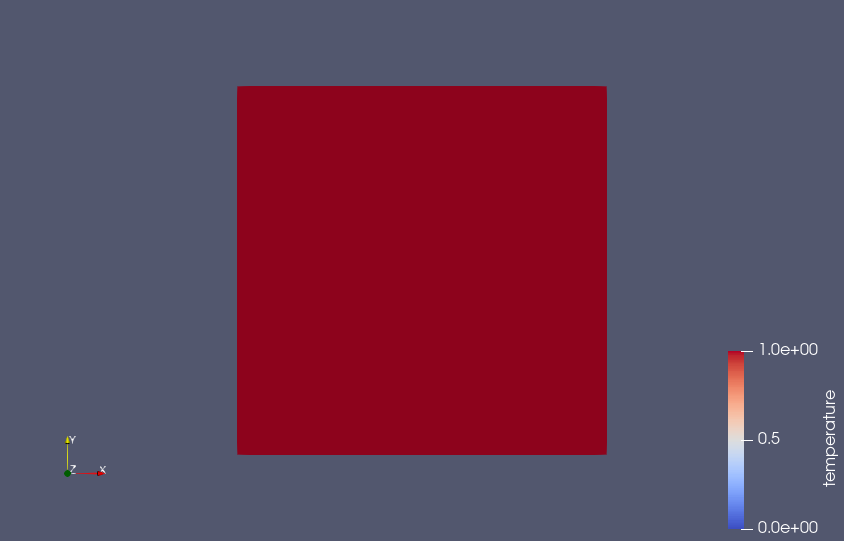
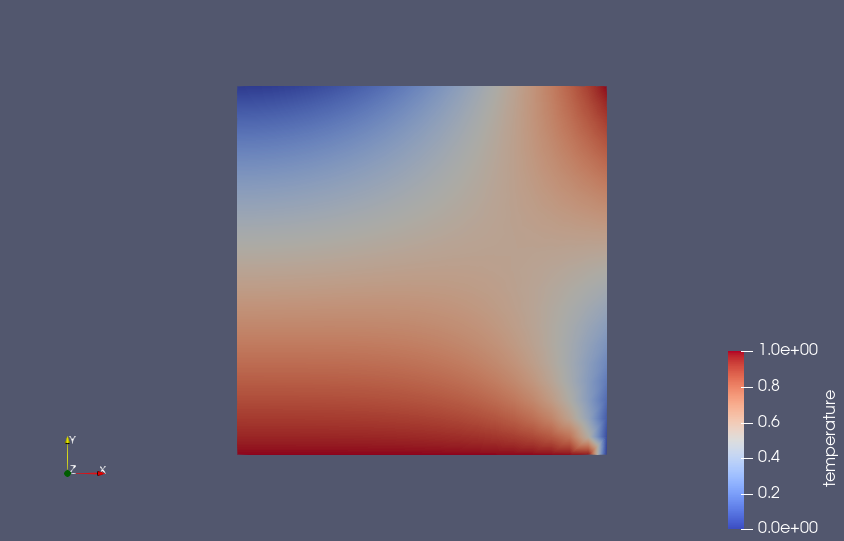
docs: more interesting boundary condition

diff --git a/examples/simple_conduction/without_input_file.cpp b/examples/simple_conduction/without_input_file.cpp
@@ -42,10 +42,16 @@ int main(int argc, char* argv[])
   conduction.setConductivity(std::move(kappa_coef));
   // _conductivity_end
   // _bc_start
-  const std::set<int> boundary_attributes = {1};
-  constexpr double boundary_value = 1.0;
-  auto boundary_coef = std::make_unique<mfem::ConstantCoefficient>(boundary_value);
-  conduction.setTemperatureBCs(boundary_attributes, std::move(boundary_coef));
+  const std::set<int> boundary_constant_attributes = {1};
+  constexpr double boundary_constant = 1.0;
+  auto boundary_constant_coef = std::make_unique<mfem::ConstantCoefficient>(boundary_constant);
+  conduction.setTemperatureBCs(boundary_constant_attributes, std::move(boundary_constant_coef));
+
+  const std::set<int> boundary_function_attributes = {2, 3};
+  auto boundary_function_coef = std::make_unique<mfem::FunctionCoefficient>([](const mfem::Vector& vec){
+    return vec[0] * vec[0] + vec[1] - 1;
+  });
+  conduction.setTemperatureBCs(boundary_function_attributes, std::move(boundary_function_coef));
   // _bc_end
 
   // _output_type_start

diff --git a/src/docs/sphinx/user_guide/simple_conduction_tutorial.rst b/src/docs/sphinx/user_guide/simple_conduction_tutorial.rst
@@ -202,9 +202,12 @@ Using Lua
 Setting Thermal (Dirichlet) Boundary Conditions
 -----------------------------------------------
 
-The following snippets add a Dirichlet boundary condition that constrains the temperature to 1.0 at boundary
-attribute 1, which for this mesh corresponds to the side of the square mesh along the x-axis, i.e., the "bottom"
-of the mesh.
+The following snippets add two Dirichlet boundary conditions:
+
+- One that constrains the temperature to 1.0 at boundary attribute 1, which for this mesh corresponds
+  to the side of the square mesh along the x-axis, i.e., the "bottom" of the mesh.
+- One that constrains the temperature to :math:`x^2 + y - 1` at boundary attributes 2 and 3, which for
+  this mesh correspond to the right side and top of the mesh, respectively.
 
 Using C++
 """""""""
@@ -221,6 +224,10 @@ Using Lua
    :start-after: _bc_start
    :end-before: _bc_end
    :language: Lua
+
+.. note::
+  The exact names here are not critical, any entry whose name contains the string ``temperature``
+  will be applied as a Dirichlet condition to the temperature field.
 
 Setting Output Type
 -------------------
@@ -273,7 +280,7 @@ This should produce the following initial state:
 
 .. image:: initial_cond_state.png
 
-Note the bottom of the mesh where the boundary condition was applied.
+Note the areas of the mesh where the boundary conditions were applied.
 
 The final (steady-state) solution should look like the following:
 
